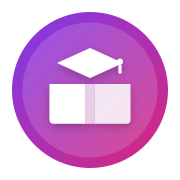
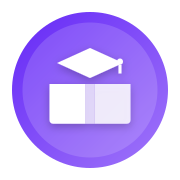
fix: update brand color palette to new purple scheme
Replace old purple-pink gradient (#7C3AED → #DB2777) with new
purple palette (#6528F7 → #A076F9 → #D7BBF5 → #EDE4FF) across
all logo SVGs, favicon, OG image, React component, and CSS variables.

diff --git a/src/app/globals.css b/src/app/globals.css
@@ -87,23 +87,23 @@
   --color-input: var(--input);
   --color-ring: var(--ring);
 
-  /* Brand purple scale (anchored to logo #7C3AED) */
-  --color-brand-50:  #f5f0ff;
-  --color-brand-100: #ede5ff;
-  --color-brand-200: #ddd0fe;
-  --color-brand-300: #c4acfd;
-  --color-brand-400: #a67dfb;
-  --color-brand-500: #8b4ff6;
-  --color-brand-600: #7c3aed;
-  --color-brand-700: #6d28d9;
-  --color-brand-800: #5b21b6;
-  --color-brand-900: #4c1d95;
-  --color-brand-950: #2e1065;
+  /* Brand purple scale (anchored to logo #6528F7) */
+  --color-brand-50:  #EDE4FF;
+  --color-brand-100: #e0d3ff;
+  --color-brand-200: #D7BBF5;
+  --color-brand-300: #c09ef3;
+  --color-brand-400: #A076F9;
+  --color-brand-500: #8350f8;
+  --color-brand-600: #6528F7;
+  --color-brand-700: #5320d6;
+  --color-brand-800: #4319b2;
+  --color-brand-900: #36148f;
+  --color-brand-950: #1e0a5e;
 
-  /* Accent pink (from logo gradient endpoint) */
-  --color-accent-400: #f472b6;
-  --color-accent-500: #ec4899;
-  --color-accent-600: #db2777;
+  /* Accent purple-light (from logo palette) */
+  --color-accent-400: #D7BBF5;
+  --color-accent-500: #A076F9;
+  --color-accent-600: #6528F7;
 }
 
 body {

diff --git a/src/components/ui/edbrio-logo.tsx b/src/components/ui/edbrio-logo.tsx
@@ -7,7 +7,7 @@ interface EdBrioLogoProps {
  * EdBrio 最終ロゴデザイン
  *
  * 特徴:
- * - パープル (#7C3AED) からピンク (#DB2777) へのグラデーション背景
+ * - パープル (#6528F7) からライトパープル (#A076F9) へのグラデーション背景
  * - 開いた本と卒業帽子のモチーフ（白色）
  * - アイコンに柔らかいドロップシャドウ
  * - 円形デザインで信頼感と完全性を表現
@@ -24,8 +24,8 @@ export function EdBrioLogo({ size = 32, className = "" }: EdBrioLogoProps) {
     >
       <defs>
         <linearGradient id="purplePinkGradient" x1="0%" y1="0%" x2="100%" y2="100%">
-          <stop offset="0%" stopColor="#7C3AED" />
-          <stop offset="100%" stopColor="#DB2777" />
+          <stop offset="0%" stopColor="#6528F7" />
+          <stop offset="100%" stopColor="#A076F9" />
         </linearGradient>
         <filter id="iconShadow" x="-50%" y="-50%" width="200%" height="200%">
           <feDropShadow dx="0" dy="2" stdDeviation="3" floodColor="#000000" floodOpacity="0.25" />
